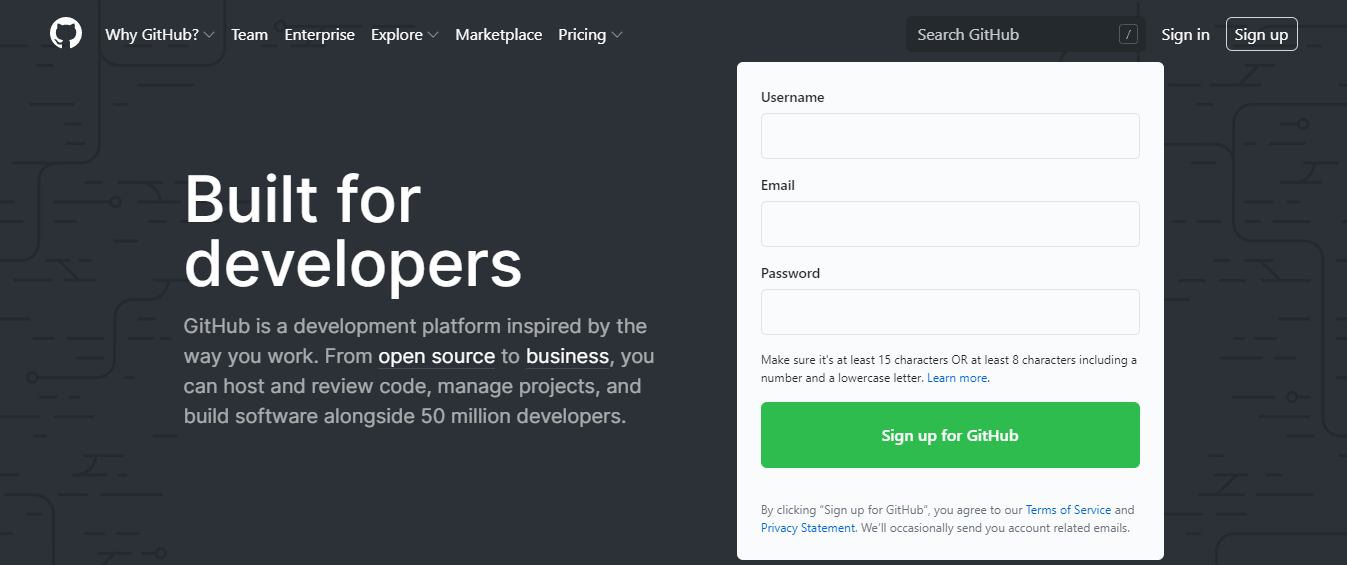
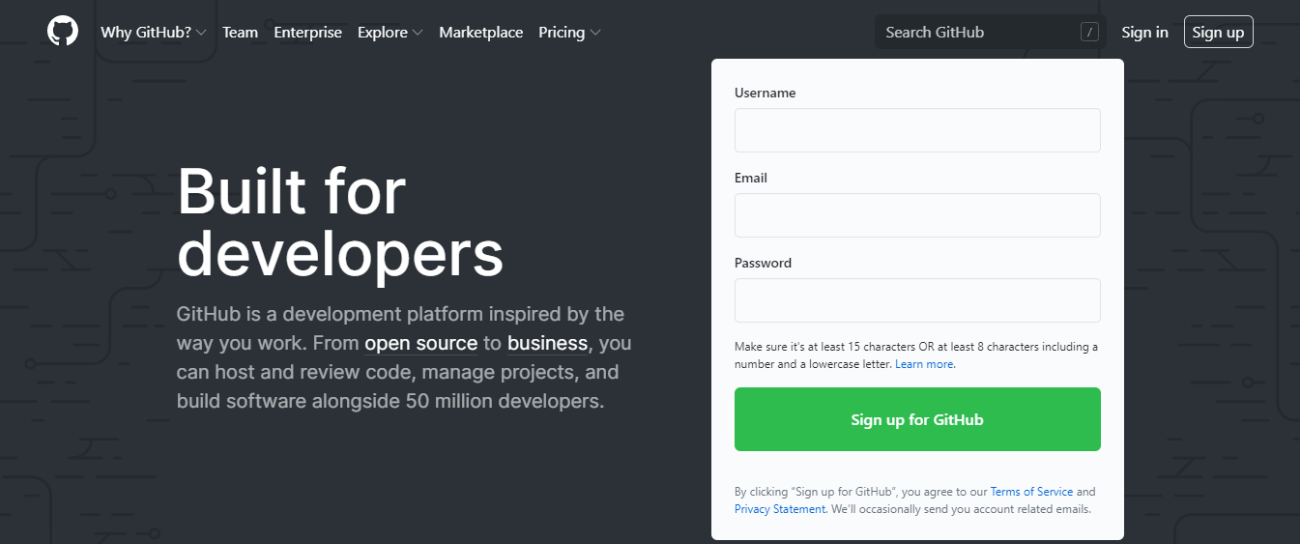
signup

diff --git a/README.md b/README.md
@@ -19,7 +19,14 @@
    ![gitpush](foto/config.png) <br>
    - Jika sudah, lakukanlah pengecekan untuk mengetahui apakah kita sudah terdaftar atau belum dengan mengetikan syntax: *'git config --global user.name'  'git config --global user.email'*. Seperti pada gambar dibawah. <br>
    ![gitpush](foto/cek.png) <br>
-   
+
+    ### LANGKAH AWAL MENGGUNAKAN GITHUB
+
+* ### LOGIN AKUN GITHUB
+  - Bukalah Github pada situs resminya yaitu *github.com*. Setelah itu pilih menu Sign Up yang terletak pada pojok kanan atas jika memang belum mempunyai akun. <br>
+  ![gitpush](foto/signup.png) <br>
+
+
 
 
 
